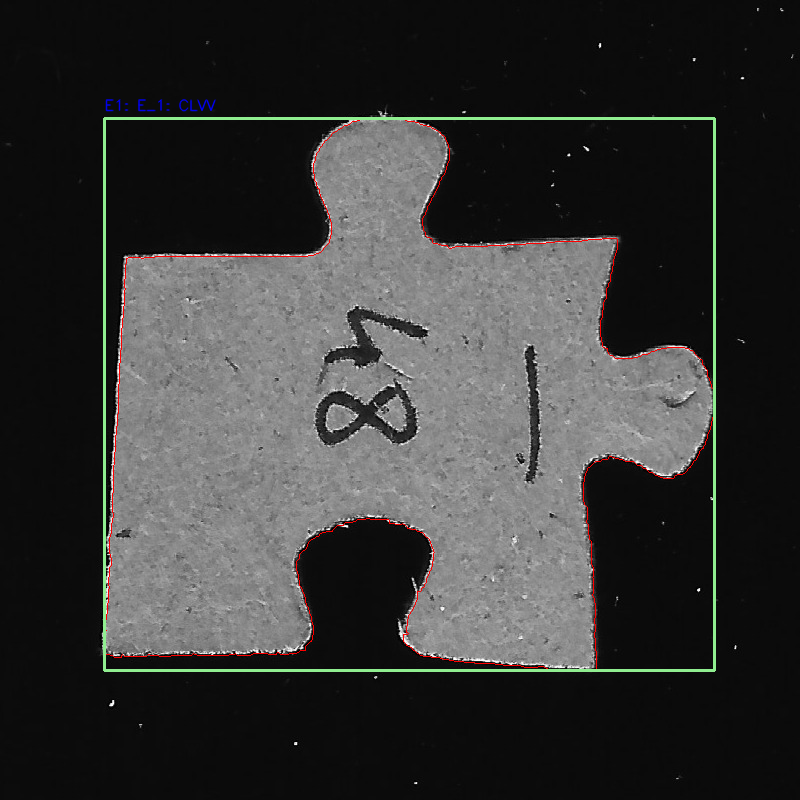
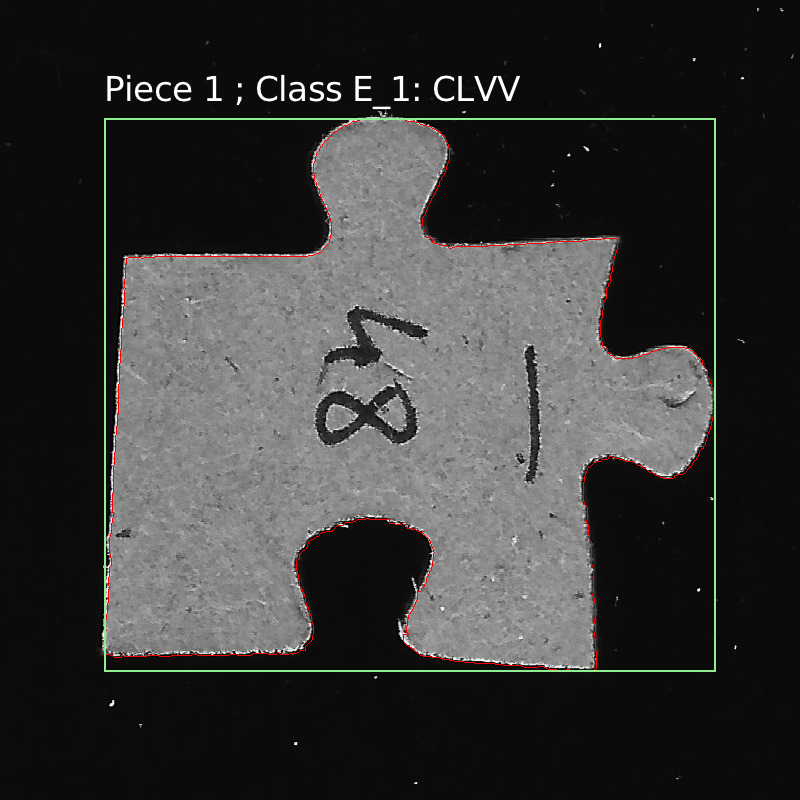
Finished? serial pipeline

diff --git a/src/serial/visualization.cpp b/src/serial/visualization.cpp
@@ -8,9 +8,11 @@
 #include <algorithm>
 #include <fstream>
 #include <iostream>
+#include <cstddef>
 #include <string>
 #include <vector>
 
+#include "serial/signal_analysis.hpp"
 #include "types.hpp"
 
 // ______________________________________________________________________________________________
@@ -143,14 +145,16 @@ void draw_piece_overlays(
     const std::vector<PuzzlePiece>& pieces,
     const std::string& output_path)
 {
-    // working on a copy so we don't modify the input
-    std::vector<uint8_t> img = rgb_data;
+    const float label_font_size = 40.0f;
 
-    for (size_t p = 0; p < regions.size(); ++p)
+    // working on a copy so we don't modify the input
+    const size_t pixel_count = static_cast<size_t>(width) * static_cast<size_t>(height) * 3;
+    std::vector<uint8_t> img(rgb_data, rgb_data + pixel_count);
+
+    for (const PuzzlePiece& piece : pieces)
     {
-        const Region& region   = regions[p];
-        const CoordinateVector<int>& contour = contours[p];
-        const std::string& label = edge_labels[p];
+        const Region& region = piece.region;
+        const CoordinateVector<int>& contour = piece.contour;
 
         // drawing the contour in red
         // contour points are (x, y) after the coordinate swap in find_contour_chain_approx_simple
@@ -169,10 +173,12 @@ void draw_piece_overlays(
                   144, 238, 144, 2);
 
         // drawing the label text in blue above the bounding box
-        // format: "E{label}: {edge_type}" e.g. "E1: ????"
-        std::string text = "E" + std::to_string(region.label) + ": " + label;
-        int text_y = std::max(0, region.y - 20);
-        draw_text(img, width, height, text, region.x, text_y, 16.0f, 0, 0, 255);
+        const std::string piece_label = piece.class_label.empty()
+            ? edges_to_string(piece.edge_labels)
+            : piece.class_label;
+        std::string text = "Piece " + std::to_string(region.label) + " ; Class " + piece_label;
+        int text_y = std::max(0, region.y - static_cast<int>(label_font_size + 8.0f));
+        draw_text(img, width, height, text, region.x, text_y, label_font_size, 255, 255, 255);
     }
 
     // saving output image if path is provided

diff --git a/src/serial/stb_image_impl.cpp b/src/serial/stb_image_impl.cpp
@@ -1,0 +1,2 @@
+#define STB_IMAGE_IMPLEMENTATION
+#include "stb_image.h"

diff --git a/commands.md b/commands.md
@@ -55,6 +55,12 @@ cmake -S . -B build
 cmake --build build --target pipeline -j
 ```
 
+Parallel build using all available CPU cores:
+
+```bash
+cmake --build build --target pipeline -j "$(nproc)"
+```
+
 ## Run Pipeline
 
 Run with the default image from `PipelineOptions`:
